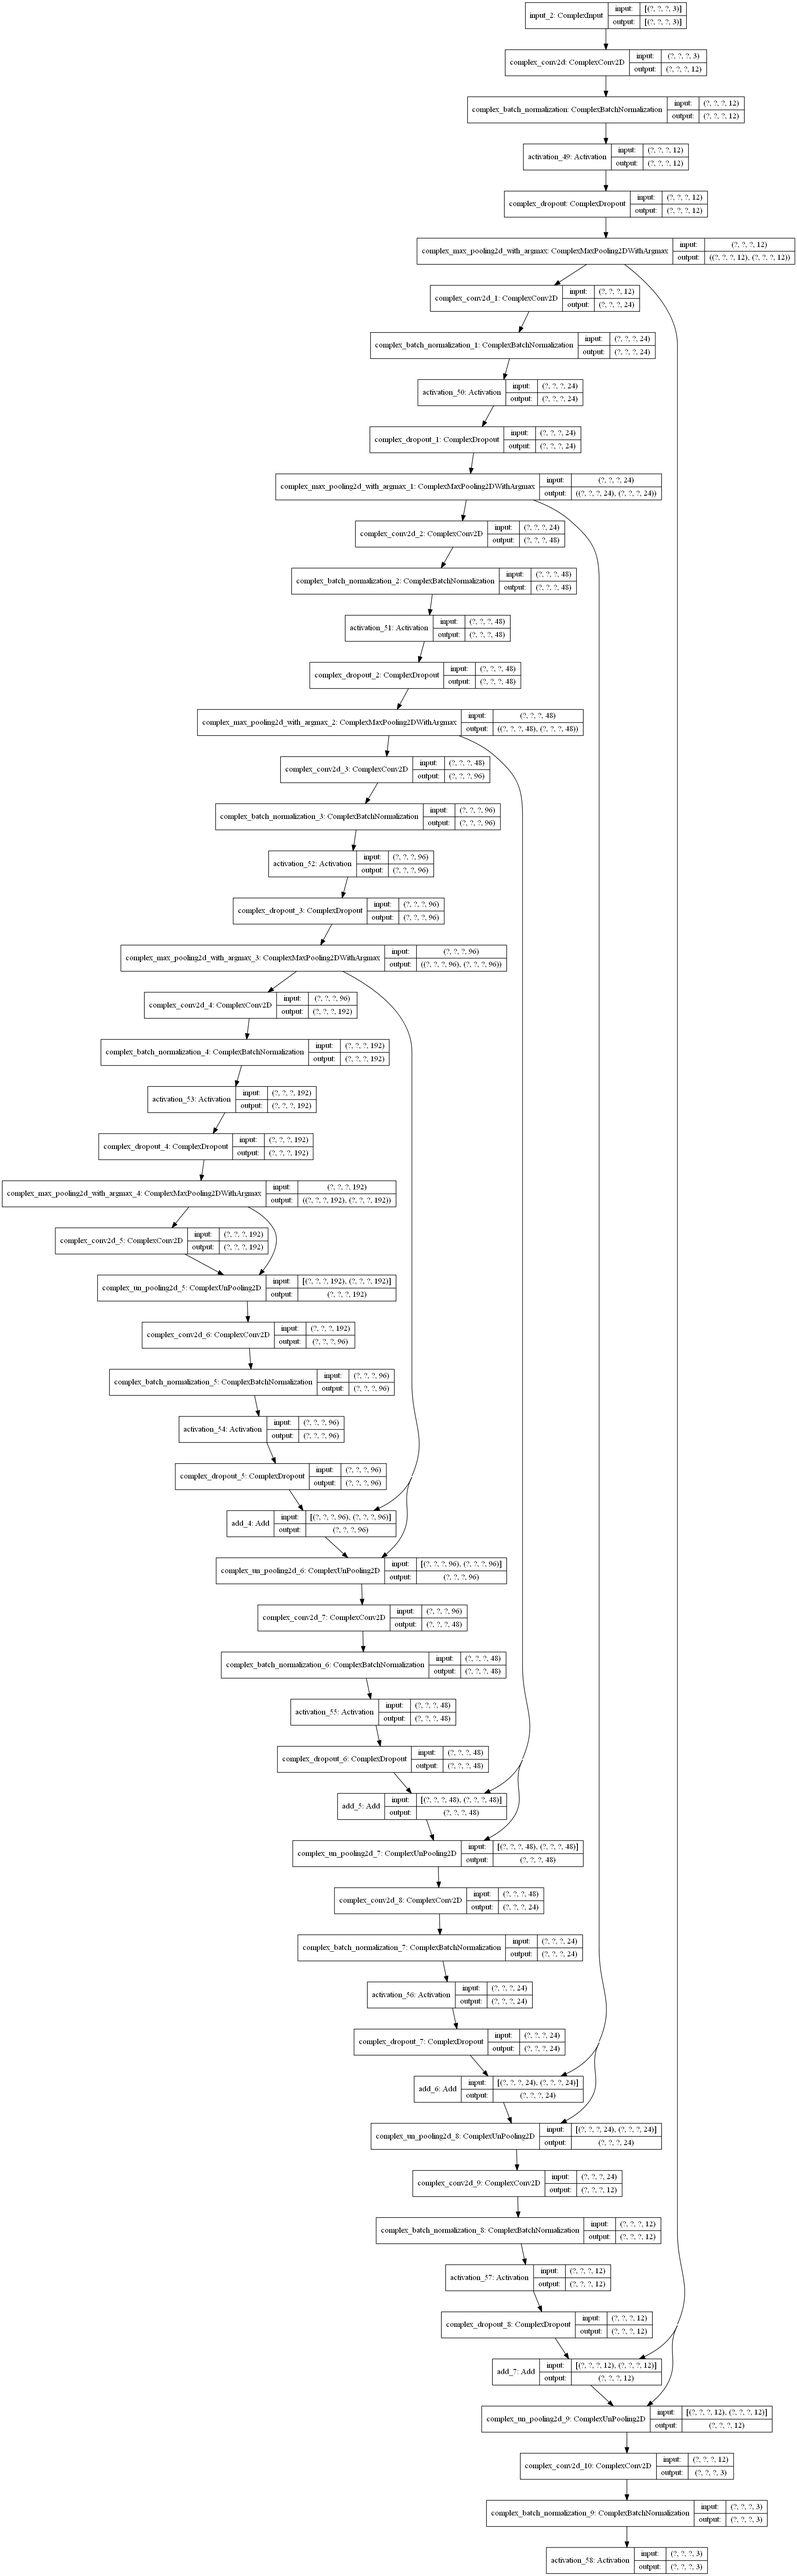
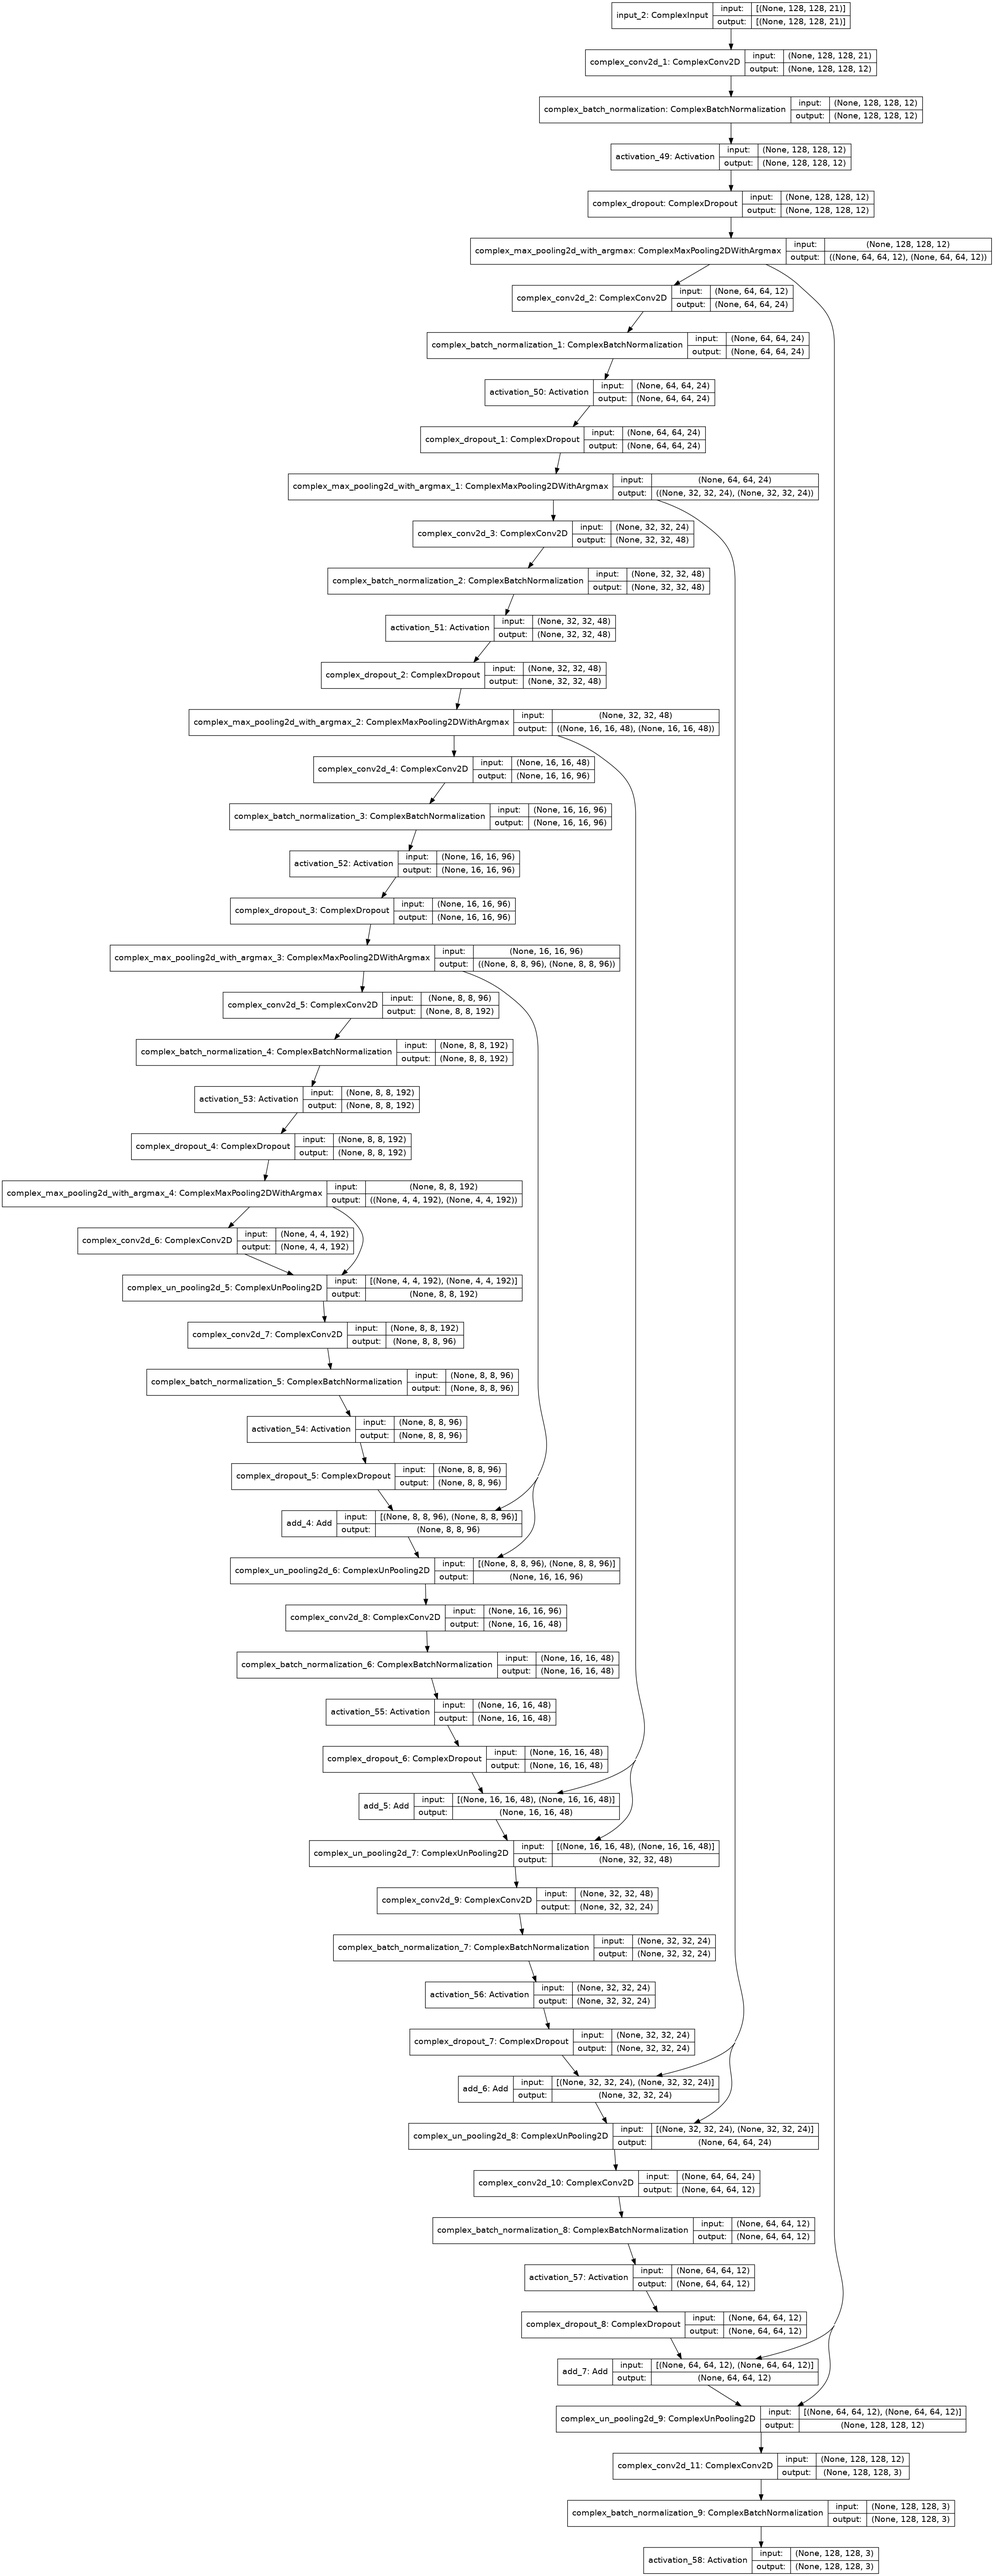
Keep working on cao

diff --git a/PolSar/cao_fcnn.py b/PolSar/cao_fcnn.py
@@ -36,40 +36,13 @@ cao_mlp_params = {
 }
 
 
-def get_cao_cvfcn_model(input_shape=(IMG_HEIGHT, IMG_WIDTH, 3), dtype=np.complex64):
-
-    def get_downsampling_block(input_to_block, num: int):
-        conv = ComplexConv2D(cao_params_model['kernels'][num], cao_params_model['kernel_shape'],
-                             activation='linear', padding=cao_params_model['padding'],
-                             kernel_initializer=cao_params_model['init'], dtype=dtype)(input_to_block)
-        conv = ComplexBatchNormalization(dtype=dtype)(conv)
-        conv = Activation(cao_params_model['activation'])(conv)
-        conv = ComplexDropout(cao_params_model['dropout'])(conv)
-        pool, pool_argmax = ComplexMaxPooling2DWithArgmax(cao_params_model['max_pool_kernel'],
-                                                          strides=cao_params_model['stride'])(conv)
-        return pool, pool_argmax
-
-    def get_upsampling_block(input_to_block, pool_argmax, kernels,
-                             activation=cao_params_model['activation'], dropout=True):
-        # TODO: Shall I use dropout here too?
-        unpool = ComplexUnPooling2D(upsampling_factor=2)([input_to_block, pool_argmax])
-        conv = ComplexConv2D(kernels, cao_params_model['kernel_shape'],
-                             activation='linear', padding=cao_params_model['padding'],
-                             kernel_initializer=cao_params_model['init'], dtype=dtype)(unpool)
-        conv = ComplexBatchNormalization(dtype=dtype)(conv)
-        conv = Activation(activation)(conv)
-        if dropout:
-            conv = ComplexDropout(cao_params_model['dropout'])(conv)
-        return conv
-
-    in1 = complex_input(shape=input_shape)
-
+def _get_cao_model(in1, get_downsampling_block, get_upsampling_block, dtype=np.complex64):
     # Downsampling
-    pool1, pool1_argmax = get_downsampling_block(in1, 0)        # Block 1
-    pool2, pool2_argmax = get_downsampling_block(pool1, 1)      # Block 2
-    pool3, pool3_argmax = get_downsampling_block(pool2, 2)      # Block 3
-    pool4, pool4_argmax = get_downsampling_block(pool3, 3)      # Block 4
-    pool5, pool5_argmax = get_downsampling_block(pool4, 4)      # Block 5
+    pool1, pool1_argmax = get_downsampling_block(in1, 0)  # Block 1
+    pool2, pool2_argmax = get_downsampling_block(pool1, 1)  # Block 2
+    pool3, pool3_argmax = get_downsampling_block(pool2, 2)  # Block 3
+    pool4, pool4_argmax = get_downsampling_block(pool3, 3)  # Block 4
+    pool5, pool5_argmax = get_downsampling_block(pool4, 4)  # Block 5
 
     # Bottleneck
     # Block 6
@@ -104,6 +77,37 @@ def get_cao_cvfcn_model(input_shape=(IMG_HEIGHT, IMG_WIDTH, 3), dtype=np.complex
     return model
 
 
+def get_cao_cvfcn_model(input_shape=(IMG_HEIGHT, IMG_WIDTH, 3), dtype=np.complex64):
+
+    def get_downsampling_block(input_to_block, num: int):
+        conv = ComplexConv2D(cao_params_model['kernels'][num], cao_params_model['kernel_shape'],
+                             activation='linear', padding=cao_params_model['padding'],
+                             kernel_initializer=cao_params_model['init'], dtype=dtype)(input_to_block)
+        conv = ComplexBatchNormalization(dtype=dtype)(conv)
+        conv = Activation(cao_params_model['activation'])(conv)
+        conv = ComplexDropout(cao_params_model['dropout'])(conv)
+        pool, pool_argmax = ComplexMaxPooling2DWithArgmax(cao_params_model['max_pool_kernel'],
+                                                          strides=cao_params_model['stride'])(conv)
+        return pool, pool_argmax
+
+    def get_upsampling_block(input_to_block, pool_argmax, kernels,
+                             activation=cao_params_model['activation'], dropout=True):
+        # TODO: Shall I use dropout here too?
+        unpool = ComplexUnPooling2D(upsampling_factor=2)([input_to_block, pool_argmax])
+        conv = ComplexConv2D(kernels, cao_params_model['kernel_shape'],
+                             activation='linear', padding=cao_params_model['padding'],
+                             kernel_initializer=cao_params_model['init'], dtype=dtype)(unpool)
+        conv = ComplexBatchNormalization(dtype=dtype)(conv)
+        conv = Activation(activation)(conv)
+        if dropout:
+            conv = ComplexDropout(cao_params_model['dropout'])(conv)
+        return conv
+
+    in1 = complex_input(shape=input_shape, dtype=dtype)
+
+    return _get_cao_model(in1, get_downsampling_block, get_upsampling_block, dtype=dtype)
+
+
 def get_tf_real_cao_model(input_shape=(IMG_HEIGHT, IMG_WIDTH, 3)):
     from tensorflow.keras.layers import Conv2D, BatchNormalization, Dropout, Input
     import tensorflow as tf
@@ -132,44 +136,7 @@ def get_tf_real_cao_model(input_shape=(IMG_HEIGHT, IMG_WIDTH, 3)):
         return conv
 
     in1 = Input(shape=input_shape)
-
-    # Downsampling
-    pool1, pool1_argmax = get_downsampling_block(in1, 0)  # Block 1
-    pool2, pool2_argmax = get_downsampling_block(pool1, 1)  # Block 2
-    pool3, pool3_argmax = get_downsampling_block(pool2, 2)  # Block 3
-    pool4, pool4_argmax = get_downsampling_block(pool3, 3)  # Block 4
-    pool5, pool5_argmax = get_downsampling_block(pool4, 4)  # Block 5
-
-    # Bottleneck
-    # Block 6
-    conv6 = Conv2D(cao_params_model['kernels'][4], (1, 1),
-                   activation="relu", padding=cao_params_model['padding'])(pool5)
-
-    # Upsampling
-    # Block7
-    conv7 = get_upsampling_block(conv6, pool5_argmax, cao_params_model['kernels'][3])
-    # Block 8
-    add8 = Add()([conv7, pool4])
-    conv8 = get_upsampling_block(add8, pool4_argmax, cao_params_model['kernels'][2])
-    # Block 9
-    add9 = Add()([conv8, pool3])
-    conv9 = get_upsampling_block(add9, pool3_argmax, cao_params_model['kernels'][1])
-    # Block 10
-    add10 = Add()([conv9, pool2])
-    conv10 = get_upsampling_block(add10, pool2_argmax, cao_params_model['kernels'][0])
-    # Block 11
-    add11 = Add()([conv10, pool1])
-    out = get_upsampling_block(add11, pool1_argmax, dropout=False,
-                               kernels=cao_params_model['num_classes'], activation="softmax")
-
-    model = Model(inputs=[in1], outputs=[out])
-    model.compile(optimizer=cao_params_model['optimizer'], loss=cao_params_model['loss'],
-                  metrics=[CustomCategoricalAccuracy(name='accuracy')])
-
-    # https://github.com/tensorflow/tensorflow/issues/38988
-    # model._layers = [layer for layer in model._layers if not isinstance(layer, dict)]
-
-    return model
+    return _get_cao_model(in1, get_downsampling_block, get_upsampling_block, dtype=tf.float32)
 
 
 def get_cao_mlp_models(output_size, input_size=None):
@@ -197,9 +164,8 @@ def get_cao_mlp_models(output_size, input_size=None):
     return [complex_network, real_network]
 
 
-
 if __name__ == '__main__':
-    model_c = get_tf_real_cao_model()
+    model_c = get_tf_real_cao_model(input_shape=(128, 128, 42))
     plot_model(model_c, to_file="tf_model.png", show_shapes=True)
-    # model_c = get_cao_cvfcn_model()
-    # plot_model(model_c, to_file="cvnn_model.png", show_shapes=True)
+    model_c = get_cao_cvfcn_model(input_shape=(128, 128, 21))
+    plot_model(model_c, to_file="cvnn_model.png", show_shapes=True)

diff --git a/PolSar/Oberpfaffenhofen/main.py b/PolSar/Oberpfaffenhofen/main.py
@@ -42,7 +42,7 @@ def get_checkpoints_list():
     tensorboard_callback = tf.keras.callbacks.TensorBoard(log_dir=temp_path / 'tensorboard', histogram_freq=0)
     cp_callback = tf.keras.callbacks.ModelCheckpoint(filepath=temp_path / 'checkpoints/cp.ckpt',
                                                      save_weights_only=True,
-                                                     verbose=1)
+                                                     verbose=0, save_best_only=True)
     return [tensorboard_callback, cp_callback]
 
 
